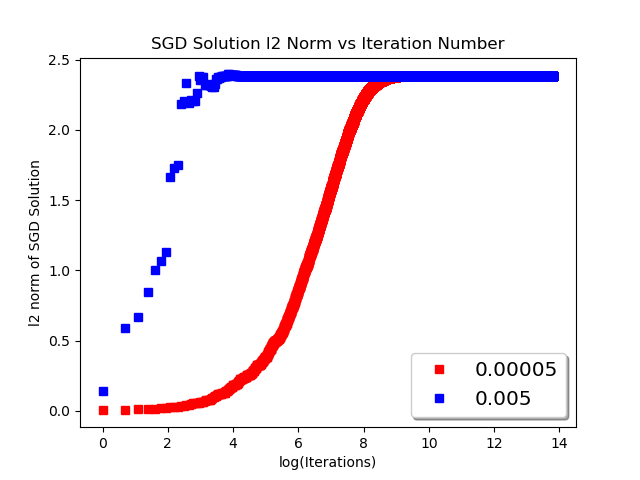
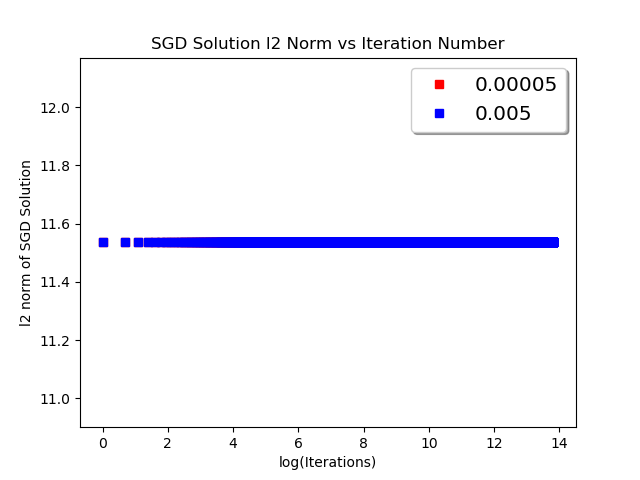
wrote some explanations for 2

diff --git a/P3/code.py b/P3/code.py
@@ -277,7 +277,8 @@ def SGD_2(): #does for train and test simultaneously
 		test_error = 0.0
 		for trial in range(num_trials):
 			print("Trial ", trial)
-			a = np.zeros(shape=(d, 1))
+			a = solve_for_a_2()
+
 
 			for i in range(num_iterations):
 				random_point = random.randint(0, n - 1)
@@ -317,19 +318,19 @@ def SGD_2(): #does for train and test simultaneously
 # 		plt.savefig(outputFileName + ".png", format = 'png')
 # 		plt.close()	
 
-#SGD_2()
+# SGD_2()
 
-#Step size:  0.005
-# Average Training Error:  0.945414598553814
-# Average Test Error:  0.9704421367327896
+# Step size:  0.005
+# Average Training Error:  4.3481452074957776e-14
+# Average Test Error:  0.8165234129641803
 
 # Step size:  0.0005
-# Average Training Error:  0.9454145985538138
-# Average Test Error:  0.9704421367327896
+# Average Training Error:  4.423861977227671e-14
+# Average Test Error:  0.8165234129641805
 
 # Step size:  5e-05
-# Average Training Error:  0.9454145985538143
-# Average Test Error:  0.9704421367327909
+# Average Training Error:  5.3175481716220075e-14
+# Average Test Error:  0.8165234129641832
 
 # partc_plot(step_sizes, training_sgd2_error, test_sgd2_error, "2c") 
 # print("Error for true coefficient vector")
@@ -364,7 +365,7 @@ l2_norms = {
 def SGD_3():
 	for step in step_sizes:
 		print("Current Step: ", step)
-		a = np.zeros(shape=(d, 1))
+		a = solve_for_a_2()
 		for i in range(total_iterations):
 			if i % 100000 == 0:
 				print("Current Iteration: ", i)
@@ -393,10 +394,10 @@ def plot_2d(outputFileName, y_dict, x_axis, title, y_label = "Error"):
 		plt.close()	
 
 # NEEDS TO BE RUN
-# SGD_3()
-# plot_2d("2d_1_1mill_log", error_training_each_iteration, [math.log(x) for x in range(1, total_iterations + 1)], "Training Error vs Iteration Number")
-# plot_2d("2d_2_1mill_log", error_test_each100_iteration, [math.log(x * 100) for x in range(1, 10001)], "Test Error vs Iteration Number")
-# plot_2d("2d_3_1mill_log", l2_norms, [math.log(x) for x in range(1, total_iterations + 1)], "SGD Solution l2 Norm vs Iteration Number", "l2 norm of SGD Solution")
+SGD_3()
+plot_2d("2d_1_1mill_log", error_training_each_iteration, [math.log(x) for x in range(1, total_iterations + 1)], "Training Error vs Iteration Number")
+plot_2d("2d_2_1mill_log", error_test_each100_iteration, [math.log(x * 100) for x in range(1, 10001)], "Test Error vs Iteration Number")
+plot_2d("2d_3_1mill_log", l2_norms, [math.log(x) for x in range(1, total_iterations + 1)], "SGD Solution l2 Norm vs Iteration Number", "l2 norm of SGD Solution")
 
 
 #EEEEEEEEEEEE
